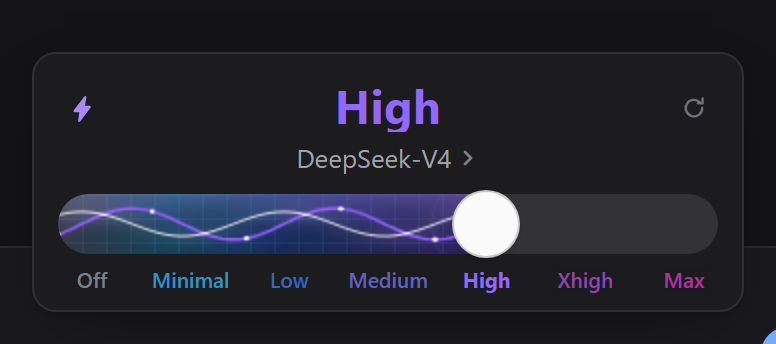
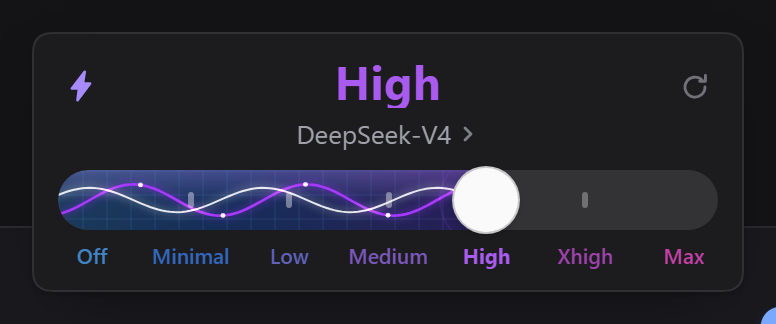
chore: 重拍 README 截图、补截图工具，清掉临时产物
截图
- 新增 tools/shoot-preview.mjs：本机没有 playwright / puppeteer，直接驱动
  headless Edge 的 CDP。先从页面里量出弹层卡片的实际包围盒，再按盒裁切，
  所以卡片尺寸改了也不用动脚本；鲸鱼娘 / 梁圣溢出的立绘会被自然纳入，
  不会被固定裁剪框切掉。支持 --only 单张重拍、--out 换输出目录、--scale 换倍率。
- docs/screenshots/ 全部重拍（9 张更新 + 新增 popup-model-light.png）：
  旧图是手工裁的，模型页那两张还停留在圆角不同心、底行被切的版本。新图
  能看出本轮四项改动——同心圆角、底行完整、打开即停在当前模型、毛玻璃。
- README 模型列表从「深色 / 梁圣」两列扩为「深色 / 浅色 / 梁圣」三列。

清理
- 删除 preview/shots/ 全部 20 张：1.0.0 初始提交时的整页截图，README 一张
  都没引用，DESIGN.md 自己标注为「历史截图（未被引用）」。
- 删除根目录 spin-*.png 排查截图、旧 tgz 打包产物、b6-dump.txt、
  .dsh-scratch.txt，以及 .ref/ 与 .scratch/ 两个临时目录，共 13.5 MB。
- test/ 下 3 个 smoke 测试保留（圆角语义与滑杆视觉的回归断言，仍在引用）。

文档
- DESIGN.md §1.1 补上 tools/shoot-preview.mjs 与 docs/screenshots/；
  §8.2 去掉已删除的 preview/shots，补上预览页的直达 URL 参数；
  §9 第 2 条从「没有自动截图脚本」改写为 shoot-preview.mjs 的用法。
- .gitignore 补 .tmp/（截图脚本的临时输出目录）。

diff --git a/CHANGELOG.md b/CHANGELOG.md
@@ -58,9 +58,13 @@
 - 新增 `test/smoke-corner-shape.mjs`：静态审计 `lib/ui.js` 与 `plugin-client-body.js` 里每条圆形/胶囊圆角规则都必须同时声明 `corner-shape: round`，并带反向自检（喂构造的违规规则，必须能抓到），避免解析器失效后假绿。
 - `preview/build-theme.mjs` 不再硬编码 asar 行号（主题 CSS 位置随打包变动，旧锚点已失效），改为按内容锚点分块扫描，并额外抽出宿主 `corner-shape.css` 的全局超椭圆规则写进预览样式——否则预览里圆是真圆、真机是方角，看不出这个 bug。
 - 新增 `test/smoke-slider-visual.mjs`：固定分隔线的形态与位置、左侧分隔线随滑动淡出到 15%、六套视觉的专属配色、星尘从 0.08 档位起手且最右速度上限 4.6、星云的漂移与扫光、填充渐变右端锚定当前档、六套调色板起手色不发灰且填充不被文字对比度压暗、Off 档走纯色分支。这几处都是看得见但改起来容易悄悄退化的地方。
+- 新增 `tools/shoot-preview.mjs`：驱动 headless Edge 的 CDP 重拍 README 截图（本机没有 playwright / puppeteer）。它先从页面里量出弹层卡片的实际包围盒再按盒裁切，卡片尺寸变了不用改脚本，鲸鱼娘 / 梁圣溢出的立绘也不会被固定裁剪框切掉。`--only` 可单张重拍、`--out` 改输出目录。
+- 预览页补了直达 URL 参数：`?open=1` 直接展开弹层、`pane=effort|model` 选面板、`dark=1` 在首次绘制前挂上暗色（不闪白），截图与人工核对都不用再手点。
 
 **清理**
 
+- README 截图全部重拍，并补上浅色模型页 `popup-model-light.png`：这批图之前是手工裁的，模型页那两张还停留在圆角不同心、底行被切的旧状态。新图能看出本轮四项改动——同心圆角、底行完整、打开即停在当前模型、以及卡片背后的毛玻璃。
+- 删除 `preview/shots/` 全部 20 张（1.0.0 初始提交时的整页截图，README 一张都没引用）。同批清掉根目录的 `spin-*.png` 排查截图与旧打包产物、`.ref/` 与 `.scratch/` 两个临时目录，共 13.5 MB。
 - 移除宿主半侧遗留代码：`lib/client.js`、`lib/index.js`、`lib/knowledge.js`。这三个是早期「插件自己探测模型、自己写推理档位、自己维护档位知识库」的实现，DSH `0.2.1-rc.2` 起已经在 provider 配置里原生提供推理等级开关，插件不再承担这部分职责，代码全部作废。
 - 移除已经失效的测试与脚本：`test/smoke-client.mjs`、`test/smoke.mjs`、`test/smoke-knowledge.mjs`、`preview/verify.mjs`、`preview/verify-page.mjs`、`tools/asar-lines.mjs`。它们断言的是 `lib/client.js` 里的旧符号（`teff-slider__stars`、`effortVisual()`、`__teff_pure`、`data-plugin-css` 等），这些符号在当前 `lib/ui.js` 里一个都不存在，套件长期「通过」只是因为它测的是旧产物。`tools/asar-lines.mjs` 已被 `preview/build-theme.mjs` 自带的分块扫描取代。
 - 移除预览 fixture 链：`preview/build-state.mjs` 与 `preview/vendor/{state,catalog}.json`、`preview/vendor/fixtures.js`。它生成的是宿主侧模型目录快照，而预览页根本不加载 `fixtures.js`，`preview/app.js` 自带内置档位数据，这条链没有消费者。

diff --git a/README.md b/README.md
@@ -27,11 +27,11 @@
 |---|---|---|
 | ![](docs/screenshots/popup-quantum-dark.png) | ![](docs/screenshots/popup-whale-dark.png) | ![](docs/screenshots/popup-liang-dark.png) |
 
-模型列表（同一弹层的另一页）：
+模型列表（同一弹层的另一页，打开即定位到当前模型）：
 
-| 深色 | 梁圣主题 |
-|---|---|
-| ![](docs/screenshots/popup-model-dark.png) | ![](docs/screenshots/popup-liang-model.png) |
+| 深色 | 浅色 | 梁圣主题 |
+|---|---|---|
+| ![](docs/screenshots/popup-model-dark.png) | ![](docs/screenshots/popup-model-light.png) | ![](docs/screenshots/popup-liang-model.png) |
 
 浅色主题：
 
